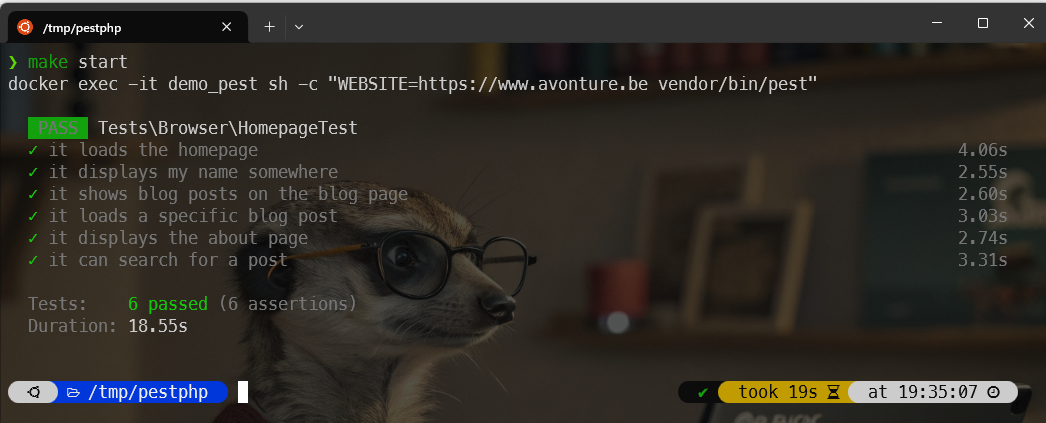
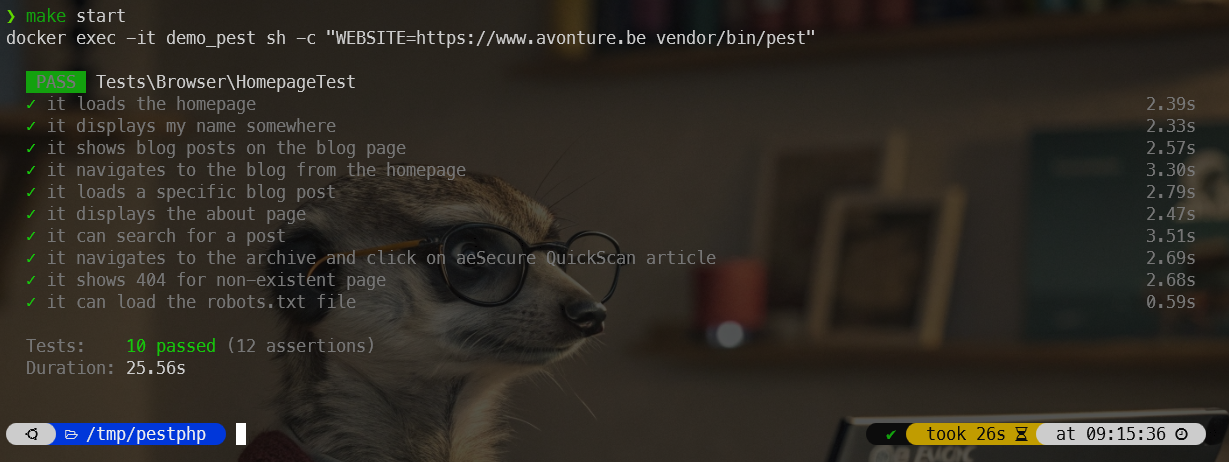
doc: functional tests with pest v4

diff --git a/blog/2025/08/30/pest-functional/index.md b/blog/2025/08/30/pest-functional/index.md
@@ -6,7 +6,7 @@ image: /img/functional_testing_social_media.jpg
 series: Functional testing
 mainTag: component
 tags: [laravel, pest, php, tests]
-blueSkyRecordKey:
+blueSkyRecordKey: 3lxm2amkjjk2m
 ---
 <!-- cspell:ignore  -->
 
@@ -198,6 +198,13 @@ it('shows blog posts on the blog page', function () {
         ->assertSee('All posts');
 });
 
+it('navigates to the blog from the homepage', function () {
+    visit(getenv('WEBSITE'))
+        ->click('Blog')
+        ->assertPathIs('/blog')
+        ->assertSee('All Posts');
+});
+
 it('loads a specific blog post', function () {
     visit(getenv('WEBSITE') . '/blog/docker-joomla')
         ->assertSee('Create your Joomla website using Docker');
@@ -215,6 +222,22 @@ it('can search for a post', function () {
         ->assertSee('Create our own Docusaurus React component');
 });
 
+it('navigates to the archive and click on aeSecure QuickScan article', function () {
+    visit(getenv('WEBSITE') . '/blog/archive')
+        ->click('August 1 - aeSecure - QuickScan - Free viruses scanner')
+        ->assertPathIs('/blog/aesecure-quickscan')
+        ->assertSee('Just start your browser and go to the URL where your site is accessible.');
+});
+
+it('shows 404 for non-existent page', function () {
+    visit(getenv('WEBSITE') . '/this-page-does-not-exist')
+        ->assertSee('Page Not Found');
+});
+
+it('can load the robots.txt file', function () {
+    visit(getenv('WEBSITE') . '/robots.txt')
+        ->assertSee('User-agent');
+});
 ```
 
 </Snippet>
@@ -225,7 +248,7 @@ it('can search for a post', function () {
   steps={[
     "We'll create our own Docker image thanks to our `Dockerfile`,",
     "We'll use a makefile for easiness and",
-    "We've a test scenario with 6 functional tests."
+    "We've a test scenario with 10 functional tests."
   ]}
 />
 
@@ -272,32 +295,42 @@ $ make start
 {`docker exec -it demo_pest sh -c "WEBSITE=https://www.avonture.be vendor/bin/pest"
 
   FAIL  Tests\Browser\HomepageTest
-  ✓ it loads the homepage                      4.01s
-  ✓ it displays my name somewhere              2.55s
-  ✓ it shows blog posts on the blog page       2.47s
-  ✓ it loads a specific blog post              2.99s
-  ✓ it displays the about page                 2.43s
-  ⨯ it can search for a post                   8.28s
-  ──────────────────────────────────────────────────
+  ✓ it loads the homepage                                                 3.00s
+  ✓ it displays my name somewhere                                         2.50s
+  ✓ it shows blog posts on the blog page                                  2.89s
+  ✓ it navigates to the blog from the homepage                            3.39s
+  ✓ it loads a specific blog post                                         3.09s
+  ✓ it displays the about page                                            2.68s
+  ⨯ it can search for a post                                              8.77s
+  ✓ it navigates to the archive and click on aeSecure QuickScan article   5.42s
+  ✓ it shows 404 for non-existent page                                    2.73s
+  ✓ it can load the robots.txt file                                       0.59s
+  ──────────────────────────────────────────────────────────────────────────────
    FAILED  Tests\Browser\HomepageTest > it can search for a post
   Expected to see text [Create our own Docusaurus React component] on the page initially with the url [https://www.avonture.be], but it was not found or not visible. A screenshot of the page has been saved to [Tests/Browser/Screenshots/it_can_search_for_a_post].
 
-  at tests/Browser/HomepageTest.php:32
-     28▕ it('can search for a post', function () {
-     29▕     visit(getenv('WEBSITE'))
-     30▕         ->click('.DocSearch-Button')
-     31▕         ->type('.DocSearch-Input', 'BlueSky')
-  ➜ 32▕         ->assertSee('Create our own Docusaurus React component');
-     33▕ });
-     34▕
+  at tests/Browser/HomepageTest.php:39
+     35▕ it('can search for a post', function () {
+     36▕     visit(getenv('WEBSITE'))
+     37▕         ->click('.DocSearch-Button')
+     38▕         ->type('.DocSearch-Input', 'BlueSky')
+  ➜ 39▕         ->assertSee('Create our own Docusaurus React component');
+     40▕ });
+     41▕
+     42▕ it('navigates to the archive and click on aeSecure QuickScan article', function () {
+     43▕     visit(getenv('WEBSITE') . '/blog/archive')
 
-  Tests:    1 failed, 5 passed (5 assertions)
-  Duration: 22.98s
+  Tests:    1 failed, 9 passed (11 assertions)
+  Duration: 35.46s
 
 make: *** [makefile:26: start] Error 1`}
 </Terminal>
 
 As we can see, the test `it can search for a post` has failed while the previous ones have succeeded.
+
+:::note
+Did you've notice that others tests were well fired? Pest won't stop on failure.
+:::
 
 The nice thing is: Pest has automatically take a snapshot. See the error message, it says that a file `Tests/Browser/Screenshots/it_can_search_for_a_post` has been created automatically.
 
@@ -329,6 +362,13 @@ it('shows blog posts on the blog page', function () {
         ->assertSee('All posts');
 });
 
+it('navigates to the blog from the homepage', function () {
+    visit(getenv('WEBSITE'))
+        ->click('Blog')
+        ->assertPathIs('/blog')
+        ->assertSee('All Posts');
+});
+
 it('loads a specific blog post', function () {
     visit(getenv('WEBSITE') . '/blog/docker-joomla')
         ->assertSee('Create your Joomla website using Docker');
@@ -347,6 +387,24 @@ it('can search for a post', function () {
         ->assertSee('React component and provide a "Share on BlueSky" button');
 });
 
+it('navigates to the archive and click on aeSecure QuickScan article', function () {
+    visit(getenv('WEBSITE') . '/blog/archive')
+        ->click('August 1 - aeSecure - QuickScan - Free viruses scanner')
+        ->assertPathIs('/blog/aesecure-quickscan')
+        ->assertSee('Just start your browser and go to the URL where your site is accessible.');
+});
+
+it('shows 404 for non-existent page', function () {
+    visit(getenv('WEBSITE') . '/this-page-does-not-exist')
+        ->assertSee('Page Not Found');
+});
+
+it('can load the robots.txt file', function () {
+    visit(getenv('WEBSITE') . '/robots.txt')
+        ->assertSee('User-agent');
+});
+
+
 ```
 
 </Snippet>
@@ -359,19 +417,23 @@ $ make start
 docker exec -it demo_pest sh -c "WEBSITE=https://www.avonture.be vendor/bin/pest"
 
   PASS  Tests\Browser\HomepageTest
-  ✓ it loads the homepage                      4.06s
-  ✓ it displays my name somewhere              2.55s
-  ✓ it shows blog posts on the blog page       2.60s
-  ✓ it loads a specific blog post              3.03s
-  ✓ it displays the about page                 2.74s
-  ✓ it can search for a post                   3.31s
+  ✓ it loads the homepage                                                 2.39s
+  ✓ it displays my name somewhere                                         2.33s
+  ✓ it shows blog posts on the blog page                                  2.57s
+  ✓ it navigates to the blog from the homepage                            3.30s
+  ✓ it loads a specific blog post                                         2.79s
+  ✓ it displays the about page                                            2.47s
+  ✓ it can search for a post                                              3.51s
+  ✓ it navigates to the archive and click on aeSecure QuickScan article   2.69s
+  ✓ it shows 404 for non-existent page                                    2.68s
+  ✓ it can load the robots.txt file                                       0.59s
 
-  Tests:    6 passed (6 assertions)
-  Duration: 18.55s
+  Tests:    10 passed (12 assertions)
+  Duration: 25.56s
 
 </Terminal>
 
-Congratulations, we've just tested 6 features in less than 20 seconds.
+Congratulations, we've just tested 10 features in less than 26 seconds.
 
 ![Success](./images/success.png)
 

diff --git a/blog/2024/06/24/behat-introduction/index.md b/blog/2024/06/24/behat-introduction/index.md
@@ -6,6 +6,7 @@ image: /img/functional_testing_social_media.jpg
 series: Functional testing
 mainTag: tests
 tags: [bdd, behat, chrome, docker, mink, php, tests]
+blueSkyRecordKey: 3lxm22j3pa22t
 ---
 <!-- cspell:ignore behat,skel,johndoe,chromedriver,gerkin,dmore,nohup,autoload -->
 ![Introduction to Behat](/img/functional_testing_banner.jpg)
